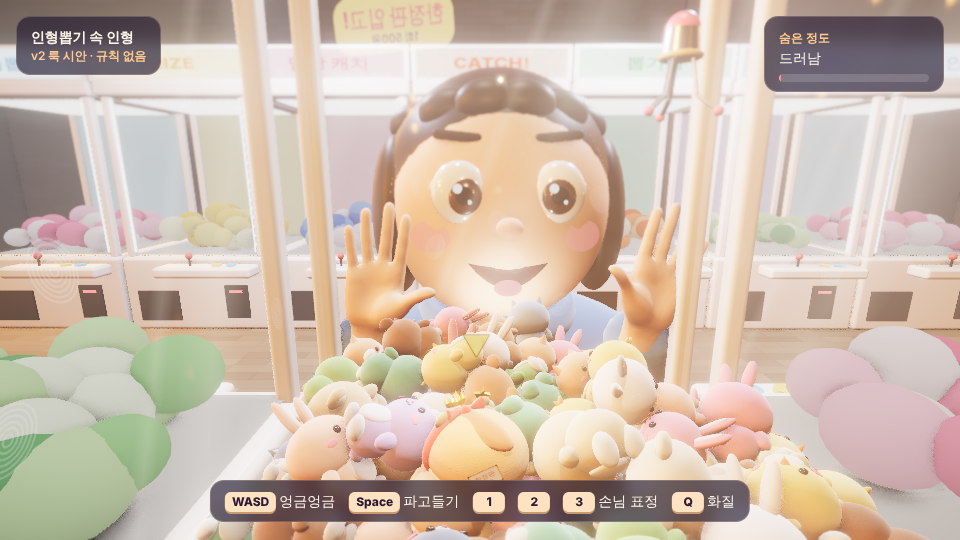
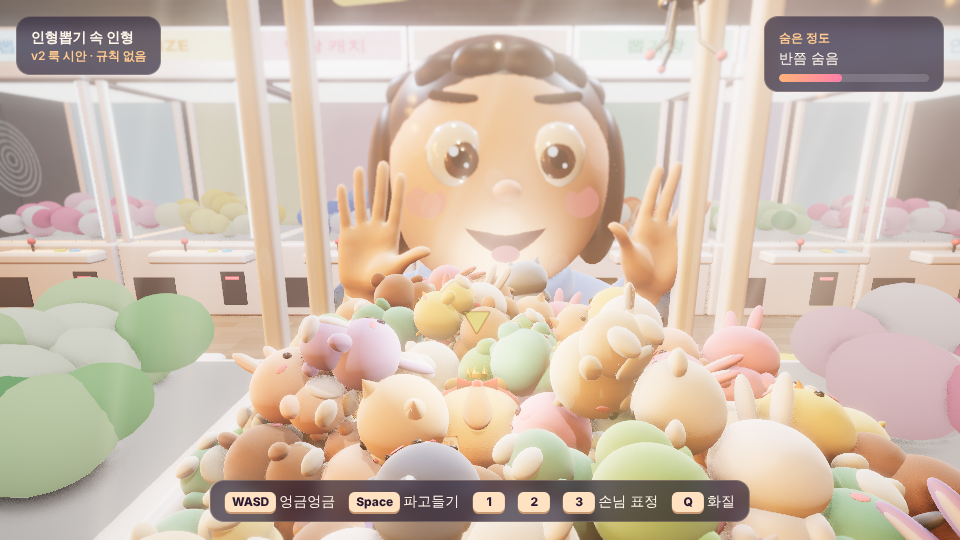
claw_doll: 파고들기를 인형 사이로 비집고 들어가는 방식으로 변경
Claude-Session: https://claude.ai/code/session_0149sDz9pXMxb84vxk6eHdaT

diff --git a/claw_doll/src/main.js b/claw_doll/src/main.js
@@ -155,7 +155,10 @@ async function main() {
   addEventListener('blur', () => { for (const k in keys) keys[k] = false; });
 
   // ================= 햄스터: 엉금엉금 + 파고들기 =================
-  const P = { phase: 0, moving: false, heading: 0, burrow: 0, radius: PR, conceal: 0, squash: 0 };
+  const G_DOLL = (0x0001 << 16) | 0xffff, G_PLAYER = (0x0002 << 16) | 0xffff, G_PLAYER_BURROW = (0x0002 << 16) | 0xfffe;
+  for (const d of dolls) for (let i = 0; i < d.body.numColliders(); i++) d.body.collider(i).setCollisionGroups(G_DOLL);
+  pCol.setCollisionGroups(G_PLAYER);
+  const P = { ghost: false, phase: 0, moving: false, heading: 0, burrow: 0, radius: PR, conceal: 0, squash: 0 };
   const _v = new THREE.Vector3();
   function stepPlayer(dt) {
     // 카메라가 +z(유리 쪽)를 보므로 화면 왼쪽이 +x
@@ -168,8 +171,12 @@ async function main() {
     let vx = vel.x, vy = vel.y, vz = vel.z;
 
     P.burrow = damp(P.burrow, burrowing ? 1 : 0, burrowing ? 10 : 5, dt);
-    const targetR = lerp(PR, 0.4, P.burrow);
-    if (Math.abs(targetR - P.radius) > 0.004) { P.radius = targetR; pCol.setRadius(targetR); }
+    // 파고드는 동안에는 인형 사이를 비집고 들어간다(인형과의 충돌을 잠시 끈다)
+    if (burrowing !== P.ghost) {
+      P.ghost = burrowing;
+      pCol.setCollisionGroups(burrowing ? G_PLAYER_BURROW : G_PLAYER);
+      pBody.wakeUp();
+    }
 
     if (P.moving) {
       ix /= len; iz /= len;
@@ -189,15 +196,11 @@ async function main() {
       vx *= 0.8; vz *= 0.8;
     }
     if (burrowing) {
-      vy = Math.min(vy, -3.2);
-      // 꿈틀거리며 주변 인형을 밀어낸다
+      // 위에 인형이 충분히 덮일 때까지 천천히 가라앉고, 그 뒤에는 그 깊이에 머문다
+      vy = P.conceal < 0.9 ? -2.4 : 0.37;
       for (const d of dolls) {
         const q = d.body.translation();
-        const dx = q.x - pos.x, dz = q.z - pos.z, dist = Math.hypot(dx, dz) || 1;
-        if (dist < 1.7 && Math.abs(q.y - pos.y) < 1.1 && q.y < pos.y + 0.5) {
-          const k = (1.7 - dist) * 0.5 * d.body.mass();
-          d.body.applyImpulse({ x: (dx / dist) * k, y: 0.12 * k, z: (dz / dist) * k }, true);
-        }
+        if (Math.hypot(q.x - pos.x, q.z - pos.z) < 2.2 && Math.abs(q.y - pos.y) < 2) d.body.wakeUp();
       }
     }
     pBody.setLinvel({ x: vx, y: vy, z: vz }, true);
